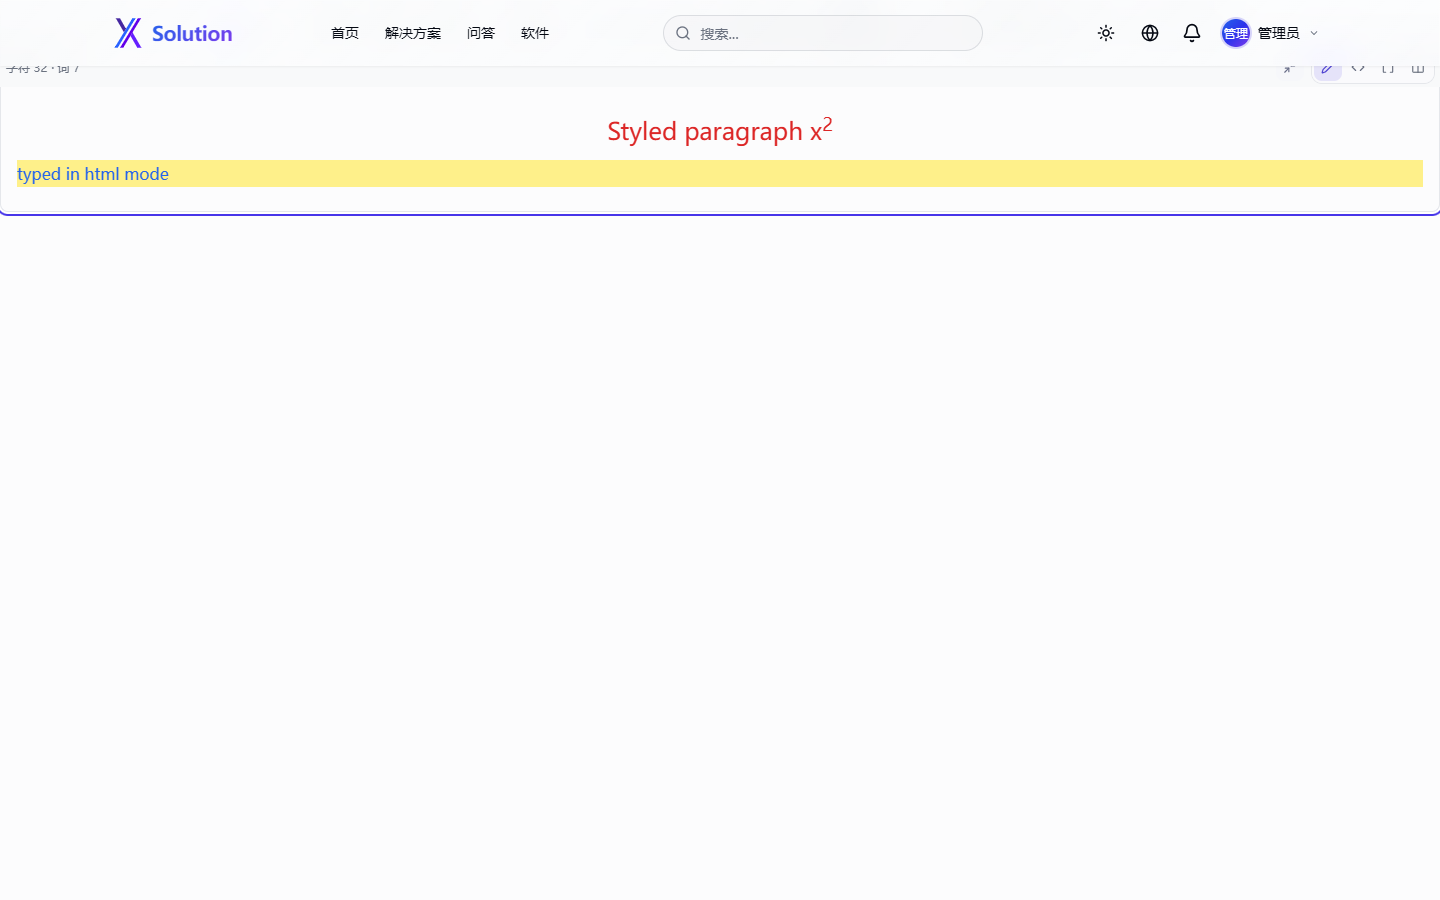
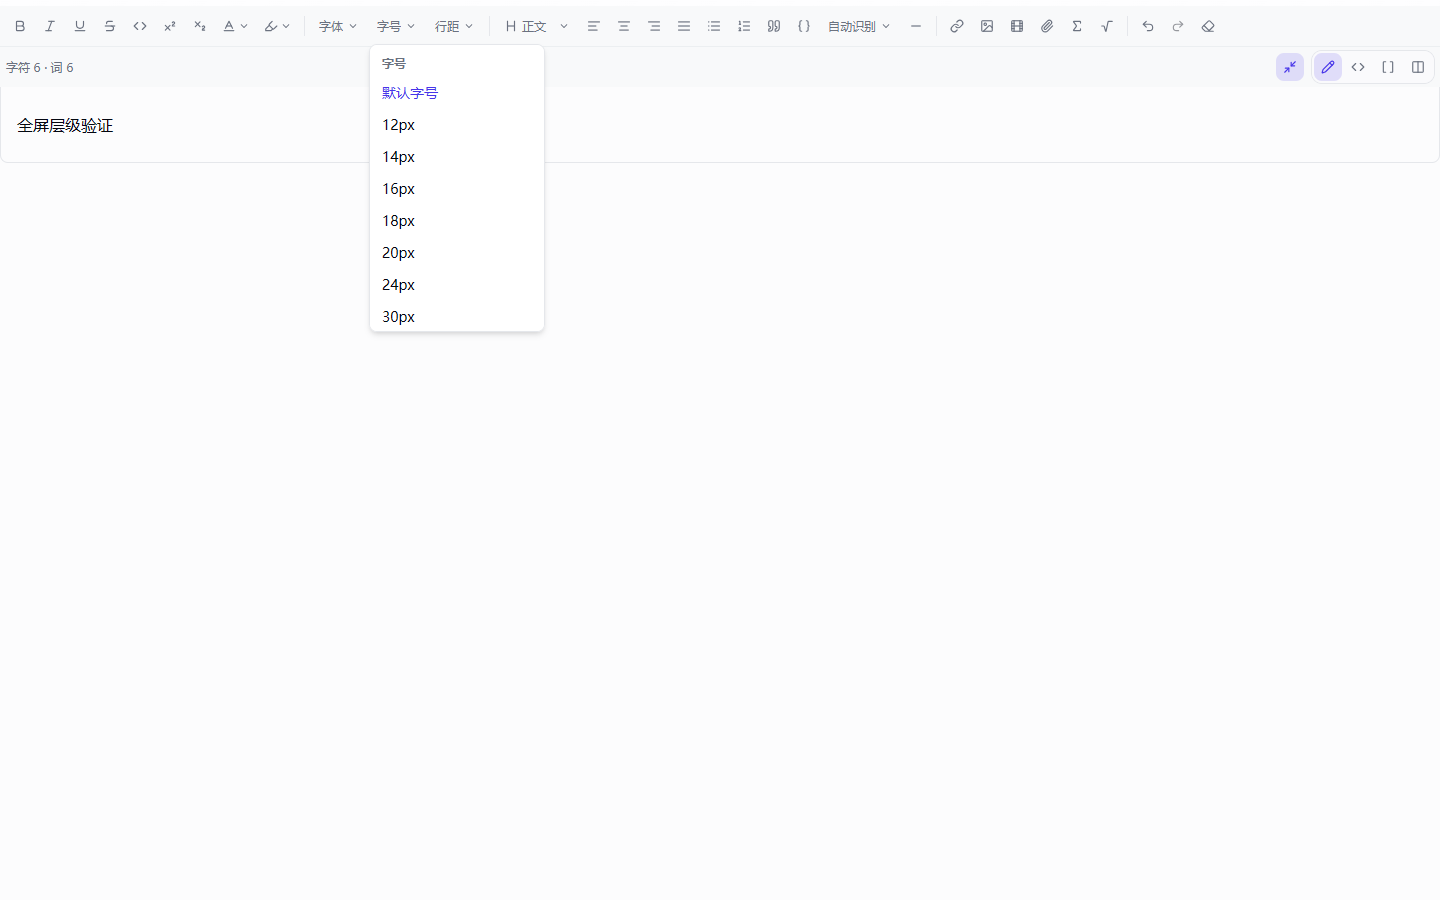
fix(editor): 全屏编辑器被站点顶栏压住——层叠上下文根因与菜单/对话框层级
现象（用户截图）：进入全屏编辑后，站点顶栏盖在编辑器工具栏上，状态行/全屏按钮/视图开关点不到
（Playwright 也点不动：header 子树 intercepts pointer events）。

排查（不猜，逐步实测）：
- 覆盖层 fixed inset-0 z-[60]，顶栏 sticky top-0 z-50，按 z-index 本该覆盖层在上，实测相反；
- 把覆盖层 z-index 改成 99999 仍无效 → 不是数值问题，是层叠上下文；
- 用 elementsFromPoint 拿真实绘制顺序，再逐祖先打印 transform/filter/contain/isolation/animation-*；
- 命中页面容器 div.container … animate-fade-in（animation: fadeIn 0.4s both）：
  fill-mode: both 让动画结束后元素仍处于"被动画影响"状态，于是它一直是 z-index:auto 的层叠上下文，
  覆盖层只在其中比较 z-index，自然被根上下文里 z-50 的顶栏压住；
- 把覆盖层 appendChild 到 body 后立刻正常，根因确认。animate-fade-in(-up) 在约 40 处页面容器上，属普遍问题。

修复：
- globals.css 新增 body.editor-fullscreen main { position: relative; z-index: 60 }：全屏时抬高唯一的
  站点级 <main>（[locale]/layout.tsx），绕开页面自己加的任何包裹层；
- RichEditor 进入/退出全屏时切换 body 的 editor-fullscreen 类（与滚动锁同一 effect，卸载时清理）；
- 工具栏菜单与公式对话框改 z-[70]（Radix Portal 渲染到 body，不改会落到编辑器后面）；为此给共享的
  DialogContent 增加可选 overlayClassName，一并抬高对话框遮罩，否则遮罩在 z-50、模态形同虚设；
- 顺带修 Esc 冲突：全屏里按 Esc 关工具栏下拉会连全屏一起退出。现在按 defaultPrevented +
  [role="menu"][data-state="open"] 判断，先关菜单/对话框，再退全屏。

验证（Playwright 对 next start，9 条断言全绿，用 elementFromPoint 做命中测试而非比对 z-index 数值）：
工具栏首行与状态行都在顶栏之上可点击；全屏里打开字号菜单，菜单可点（在覆盖层之上）；
公式对话框可见、遮罩挡住后面的编辑器、对话框在遮罩之上；Esc 第一次只关菜单、第二次才退全屏；
对话框开着时第一次 Esc 只关对话框。截图 docs/assets/editor-fullscreen.png 已更新。

同步文档：docs/frontend.md（全屏小节的层叠上下文说明、Esc 优先级、body 类）、
docs/code-audit.md（第一节第 20 条，含 5 步排查过程）、docs/README.md（配图说明）、
AGENTS.md §2.7（整屏覆盖层必须先想层叠上下文）。

自检：tsc 0 错误；eslint 无告警；i18n 1127 键对齐；sanitize:check 39/39；markdown:check 19/19；
[…]

diff --git a/src/components/client/EditorToolbar.tsx b/src/components/client/EditorToolbar.tsx
@@ -43,6 +43,13 @@ interface EditorToolbarProps {
   onToggleFullscreen?: () => void
 }
 
+/**
+ * Menu/dialog stacking above the fullscreen editor overlay (`z-[60]`). Portals
+ * render at `document.body`, so without this the menus would open *behind* the
+ * editor they belong to.
+ */
+const FULLSCREEN_MENU_Z = "z-[70]"
+
 /** Font-family presets paired with their message keys (static, so i18n can see them). */
 const FONT_FAMILY_LABEL_KEYS: Record<string, string> = {
   system: "fontFamilySystem",
@@ -188,6 +195,7 @@ export function EditorToolbar({
               colors={TEXT_COLOR_PRESETS}
               value={activeColor}
               icon={<Baseline className="h-3.5 w-3.5" />}
+              fullscreen={fullscreen}
               onPick={(color) => editor.chain().focus().setTextStyle({ color }).run()}
               onClear={() => editor.chain().focus().unsetTextStyle(["color"]).run()}
             />
@@ -197,6 +205,7 @@ export function EditorToolbar({
               colors={HIGHLIGHT_COLOR_PRESETS}
               value={activeHighlight}
               icon={<Highlighter className="h-3.5 w-3.5" />}
+              fullscreen={fullscreen}
               onPick={(color) => editor.chain().focus().setTextStyle({ backgroundColor: color }).run()}
               onClear={() => editor.chain().focus().unsetTextStyle(["backgroundColor"]).run()}
             />
@@ -209,6 +218,7 @@ export function EditorToolbar({
               label={t("fontFamily")}
               display={fontFamilyLabel ? t(FONT_FAMILY_LABEL_KEYS[fontFamilyLabel.id] ?? "fontFamilySystem") : t("fontFamily")}
               active={Boolean(activeFontFamily)}
+              fullscreen={fullscreen}
             >
               <DropdownMenuItem
                 className={cn(!activeFontFamily && "font-medium text-primary")}
@@ -233,6 +243,7 @@ export function EditorToolbar({
               label={t("fontSize")}
               display={activeFontSize || t("fontSize")}
               active={Boolean(activeFontSize)}
+              fullscreen={fullscreen}
             >
               <DropdownMenuItem
                 className={cn(!activeFontSize && "font-medium text-primary")}
@@ -255,6 +266,7 @@ export function EditorToolbar({
               label={t("lineHeight")}
               display={activeLineHeight || t("lineHeight")}
               active={Boolean(activeLineHeight)}
+              fullscreen={fullscreen}
             >
               <DropdownMenuItem
                 className={cn(!activeLineHeight && "font-medium text-primary")}
@@ -285,7 +297,7 @@ export function EditorToolbar({
                   <ChevronDown className="h-3 w-3" />
                 </button>
               </DropdownMenuTrigger>
-              <DropdownMenuContent align="start" className="w-40">
+              <DropdownMenuContent align="start" className={cn(fullscreen && FULLSCREEN_MENU_Z, "w-40")}>
                 <DropdownMenuItem
                   onSelect={() => editor.chain().focus().setParagraph().run()}
                   className={cn(!activeHeading && "font-medium text-primary")}
@@ -353,6 +365,7 @@ export function EditorToolbar({
               label={t("codeLanguage")}
               display={activeCodeLanguage || t("codeLanguageAuto")}
               active={Boolean(activeCodeLanguage)}
+              fullscreen={fullscreen}
             >
               <DropdownMenuItem
                 className={cn(!activeCodeLanguage && "font-medium text-primary")}
@@ -532,11 +545,13 @@ function ToolbarSelect({
   label,
   display,
   active,
+  fullscreen = false,
   children,
 }: {
   label: string
   display: string
   active?: boolean
+  fullscreen?: boolean
   children: React.ReactNode
 }) {
   return (
@@ -552,7 +567,10 @@ function ToolbarSelect({
           <ChevronDown className="h-3 w-3" />
         </button>
       </DropdownMenuTrigger>
-      <DropdownMenuContent align="start" className="max-h-72 w-44 overflow-y-auto">
+      <DropdownMenuContent
+        align="start"
+        className={cn(fullscreen && FULLSCREEN_MENU_Z, "max-h-72 w-44 overflow-y-auto")}
+      >
         <DropdownMenuLabel className="text-xs text-muted-foreground">{label}</DropdownMenuLabel>
         {children}
       </DropdownMenuContent>
@@ -567,6 +585,7 @@ function ColorMenu({
   colors,
   value,
   icon,
+  fullscreen = false,
   onPick,
   onClear,
 }: {
@@ -575,6 +594,7 @@ function ColorMenu({
   colors: readonly string[]
   value: string
   icon: React.ReactNode
+  fullscreen?: boolean
   onPick: (color: string) => void
   onClear: () => void
 }) {
@@ -598,7 +618,7 @@ function ColorMenu({
           <ChevronDown className="h-3 w-3" />
         </button>
       </DropdownMenuTrigger>
-      <DropdownMenuContent align="start" className="w-auto p-2">
+      <DropdownMenuContent align="start" className={cn(fullscreen && FULLSCREEN_MENU_Z, "w-auto p-2")}>
         <DropdownMenuLabel className="px-0 pb-1.5 text-xs text-muted-foreground">{label}</DropdownMenuLabel>
         <div className="grid grid-cols-5 gap-1">
           {colors.map((color) => (

diff --git a/src/components/client/RichEditor.tsx b/src/components/client/RichEditor.tsx
@@ -368,6 +368,12 @@ export function RichEditor({
   /**
    * Fullscreen: lock the page behind the overlay and exit on Escape.
    *
+   * Also flags `<body>`, because the overlay alone cannot win the stacking fight:
+   * page containers use `animate-fade-in` (fill-mode `both`), which creates a
+   * stacking context with `z-index: auto` around the editor, so the sticky header
+   * (`z-50`) painted over the fullscreen toolbar. The `editor-fullscreen` class
+   * lifts `<main>` above the header — see globals.css.
+   *
    * Radix dialogs close themselves on Escape, so an open formula dialog wins and
    * the editor stays fullscreen.
    */
@@ -375,14 +381,24 @@ export function RichEditor({
     if (!fullscreen) return;
     const previousOverflow = document.body.style.overflow;
     document.body.style.overflow = "hidden";
+    document.body.classList.add("editor-fullscreen");
 
     const onKeyDown = (event: KeyboardEvent) => {
-      if (event.key === "Escape" && mathDialogRef.current === null) setFullscreen(false);
+      if (event.key !== "Escape" || event.defaultPrevented) return;
+      // Escape belongs to whatever is open on top: an open menu (Radix renders
+      // its content with `role="menu"` + `data-state="open"`) or the formula
+      // dialog. Only when nothing else is open does it leave fullscreen.
+      if (mathDialogRef.current !== null) return;
+      if (document.querySelector('[role="menu"][data-state="open"], [role="listbox"][data-state="open"]')) {
+        return;
+      }
+      setFullscreen(false);
     };
     window.addEventListener("keydown", onKeyDown);
 
     return () => {
       document.body.style.overflow = previousOverflow;
+      document.body.classList.remove("editor-fullscreen");
       window.removeEventListener("keydown", onKeyDown);
     };
   }, [fullscreen]);
@@ -583,7 +599,10 @@ export function RichEditor({
         "rich-editor",
         // In fullscreen the editor becomes its own column: toolbar pinned at the
         // top, the active view scrolls underneath.
-        fullscreen && "fixed inset-0 z-40 flex flex-col bg-background"
+        // `z-[60]` must stay above the site header (sticky `z-50`), otherwise the
+        // navbar covers the toolbar; anything this editor opens on top of itself
+        // (the formula dialog, the toolbar menus) therefore uses `z-[70]`.
+        fullscreen && "fixed inset-0 z-[60] flex flex-col bg-background"
       )}
       {...(fullscreen ? { role: "region", "aria-label": te("fullscreen") } : {})}
     >
@@ -695,7 +714,10 @@ export function RichEditor({
 
       {/* LaTeX dialog: insert a new formula or edit the double-clicked one */}
       <Dialog open={mathDialog !== null} onOpenChange={(open) => { if (!open) setMathDialog(null); }}>
-        <DialogContent className="max-w-2xl">
+        <DialogContent
+          className={cn("max-w-2xl", fullscreen && "z-[70]")}
+          overlayClassName={fullscreen ? "z-[70]" : undefined}
+        >
           <DialogHeader>
             <DialogTitle>{mathDialog?.pos === null ? te("mathInsertTitle") : te("mathEditTitle")}</DialogTitle>
             <DialogDescription>{te("mathHint")}</DialogDescription>

diff --git a/src/app/globals.css b/src/app/globals.css
@@ -428,6 +428,21 @@
   outline: none;
 }
 
+/* ─── Fullscreen editing ───
+   The overlay itself is `fixed inset-0 z-[60]` (see RichEditor). That z-index only
+   competes *inside* the nearest stacking context, and nearly every page wraps its
+   content in a container with `animate-fade-in` — an animation with fill-mode
+   `both`, which creates a stacking context with `z-index: auto`. So the sticky
+   site header (z-50) painted over the fullscreen toolbar.
+
+   Lifting the single site-wide `<main>` (`[locale]/layout.tsx`) above the header
+   makes the whole subtree win, whatever wrapper a page adds inside it. Same reason
+   the toolbar menus and the formula dialog use z-[70]. */
+body.editor-fullscreen main {
+  position: relative;
+  z-index: 60;
+}
+
 /* ─── Prose Content (Rendered Articles) ─── */
 .prose-custom {
   @apply text-foreground leading-relaxed;

diff --git a/src/components/ui/dialog.tsx b/src/components/ui/dialog.tsx
@@ -27,10 +27,13 @@ DialogOverlay.displayName = DialogPrimitive.Overlay.displayName
 
 const DialogContent = React.forwardRef<
   React.ElementRef<typeof DialogPrimitive.Content>,
-  React.ComponentPropsWithoutRef<typeof DialogPrimitive.Content>
->(({ className, children, ...props }, ref) => (
+  React.ComponentPropsWithoutRef<typeof DialogPrimitive.Content> & {
+    /** Lets a caller stack the backdrop with its own overlay (e.g. the fullscreen editor). */
+    overlayClassName?: string
+  }
+>(({ className, overlayClassName, children, ...props }, ref) => (
   <DialogPortal>
-    <DialogOverlay />
+    <DialogOverlay className={overlayClassName} />
     <DialogPrimitive.Content
       ref={ref}
       className={cn(

diff --git a/docs/code-audit.md b/docs/code-audit.md
@@ -295,6 +295,44 @@ INVALID_MESSAGE: UNCLOSED_TAG (提示：编辑器不支持的标签（如 <secti
 
 ---
 
+### 20. 全屏编辑器被站点顶栏压住（2026-10-07，用户截图反馈）
+
+**现象**：进入全屏编辑后，站点顶栏（导航、搜索框、头像）盖在编辑器工具栏上——状态行、
+全屏按钮、视图开关都点不到（Playwright 也点不动：`header … subtree intercepts pointer events`）。
+
+**排查**（逐步实测，避免猜）：
+
+1. 覆盖层是 `fixed inset-0 z-[60]`，顶栏是 `sticky top-0 z-50` → 按 z-index 应该覆盖层在上，**但实测顶栏在上**；
+2. 把覆盖层的 z-index 改成 `99999` 仍然无效 → 说明不是数值问题，而是**层叠上下文**；
+3. 用 `document.elementsFromPoint()` 拿到真实绘制顺序，再逐个祖先打印
+   `transform / filter / backdrop-filter / contain / container-type / isolation / will-change / animation-*`；
+4. 命中的是页面容器：`div.container … animate-fade-in`，`animation: fadeIn 0.4s both`。
+   **`fill-mode: both` 让动画结束后元素仍处于"被动画影响"的状态，于是它一直是一个 `z-index: auto` 的层叠上下文**——
+   覆盖层的 z-index 只在这个上下文内比较，自然被根上下文里 `z-50` 的顶栏压住；
+5. 把覆盖层 `appendChild` 到 `document.body` 后立刻正常，确认根因。
+
+`animate-fade-in` / `animate-fade-in-up` 几乎是每个页面容器的标配（约 40 处），所以这不是偶发问题。
+
+**修复**：
+
+- `globals.css`：全屏时给唯一的站点级 `<main>`（`[locale]/layout.tsx`）抬高到 `z-index: 60`，绕开页面自己加的包裹层：
+  ```css
+  body.editor-fullscreen main { position: relative; z-index: 60; }
+  ```
+- `RichEditor` 进入/退出全屏时切换 `<body>` 的 `editor-fullscreen` 类（与滚动锁放在同一个 effect，卸载时清理）。
+- 工具栏菜单与公式对话框改用 `z-[70]`：它们经 Radix Portal 渲染到 `document.body`，不改就会**落到编辑器后面**；
+  为此给共享的 `DialogContent` 加了可选的 `overlayClassName`，一并抬高对话框遮罩（否则遮罩在 z-50，
+  点不到"遮罩挡住后面"的效果，模态形同虚设）。
+- 顺带修掉一个 Esc 冲突：在全屏里按 Esc 关工具栏下拉时，会连全屏一起退出。现在按
+  `defaultPrevented` + `[role="menu"][data-state="open"]` 判断，**先关菜单/对话框，再退全屏**。
+
+**验证**（Playwright 对 `next start`，9 条断言全绿，用 `elementFromPoint` 做命中测试而不是比对 z-index 数值）：
+工具栏首行与状态行都在顶栏之上可点击；全屏里打开字号菜单，菜单在覆盖层之上可点；
+公式对话框可见、遮罩真的挡住后面的编辑器、对话框在遮罩之上；Esc 第一次只关菜单、第二次才退全屏；
+对话框打开时第一次 Esc 只关对话框。截图见 [editor-fullscreen.png](./assets/editor-fullscreen.png)。
+
+---
+
 ## 二、待处理
 按影响面排序，均未修改。
 

diff --git a/docs/frontend.md b/docs/frontend.md
@@ -178,13 +178,25 @@ src/app/
 **颜色比较要归一化**：ProseMirror 通过 CSSOM（`cssText`）渲染 `style`，`#dc2626` 会被写成 `rgb(220, 38, 38)`；
 `normalizeCssColor()` 把两边都转成 `#rrggbb` 再比较，色板才能正确显示"当前色"。
 
-**全屏编辑**：状态行右侧的箭头按钮把整个编辑器变成 `fixed inset-0 z-40 flex flex-col` 覆盖层（工具栏是固定头部、
-当前视图自己滚动），进入时锁 `document.body` 滚动并把焦点交回可编辑区；**Esc 退出**（若公式对话框开着，
-Radix 先关对话框、编辑器保持全屏）。可编辑区的内联 `min-height` 在全屏时改成 `100%`，源码/分屏文本框则改由布局控制高度。
+**全屏编辑**：状态行右侧的箭头按钮把整个编辑器变成 `fixed inset-0 z-[60] flex flex-col` 覆盖层（工具栏是固定头部、
+当前视图自己滚动），进入时锁 `document.body` 滚动并把焦点交回可编辑区；Esc 逐层退出。
+
+**为什么需要 `body.editor-fullscreen main { z-index: 60 }`**（globals.css）：覆盖层自己的 z-index 只在**最近的层叠上下文内**
+比较。而几乎每个页面都把内容包在带 `animate-fade-in` 的容器里，该动画是 `fill-mode: both`，会留下一个
+`z-index: auto` 的层叠上下文，于是 `fixed z-[60]` 的覆盖层被困在里面，被 `sticky z-50` 的站点顶栏压住（实测：
+即使把 z-index 抬到 99999 也无效，把覆盖层移出 `body` 才生效）。抬高唯一的站点级 `<main>`
+（`[locale]/layout.tsx`）就绕开了页面自己加的任何包裹层。同理，全屏时工具栏菜单与公式对话框用 `z-[70]`
+（对话框的遮罩靠 `DialogContent` 新增的 `overlayClassName` 一起抬高），否则它们会**跑到编辑器后面**。
+
+**Esc 的优先级**：先关打开着的菜单/对话框，再退出全屏——靠 `defaultPrevented` 与
+`[role="menu"][data-state="open"]` 判断，否则在工具栏里按 Esc 关下拉会连全屏一起退出。
+
+**其它细节**：可编辑区的内联 `min-height` 在全屏时改成 `100%`，源码/分屏文本框改由布局控制高度；
+进入全屏时给 `<body>` 加 `editor-fullscreen` 类（与滚动锁同一处 effect，退出/卸载时移除）。
 
 ![编辑器工具栏与状态行](./assets/editor-toolbar.png)
 
-![全屏编辑](./assets/editor-fullscreen.png)
+![全屏编辑（下拉菜单仍浮在覆盖层之上，不受站点顶栏影响）](./assets/editor-fullscreen.png)
 
 **Markdown 源码模式的保真**（`lib/editor-markdown.ts`）：turndown 的内置规则**优先于** `keep()`，因此
 `## 标题` 上的 `style="text-align: center"` 会被标题规则吃掉，附件锚点会被转成普通链接；空元素更是连规则都进不去

diff --git a/docs/README.md b/docs/README.md
@@ -149,7 +149,7 @@ python -m crawler.main --format jsonl             # 每行一条 JSON
 | `docs/assets/publish-*.png` | 发布页界面截图 | `/questions/ask` 与 `/solutions/new` 各 1 张（1440×1000），见 [frontend.md](./frontend.md) 第二节 |
 | `docs/assets/editor-math.png` · `docs/assets/math-rendered.png` | 公式功能截图 | 编辑器内的 LaTeX 节点与详情页的服务端渲染效果，见 [frontend.md](./frontend.md)「公式」小节 |
 | `docs/assets/editor-toolbar.png` | 编辑器工具栏截图 | 两行工具栏（排版 / 字体与间距 / 段落 / 插入 / 历史 + 状态与视图开关）与 HTML 源码样式切回富文本后的效果，见 [frontend.md](./frontend.md)「编辑器排版与三模式切换」 |
-| `docs/assets/editor-fullscreen.png` | 全屏编辑截图 | 覆盖层里的工具栏与可编辑区，见 [frontend.md](./frontend.md) 同小节 |
+| `docs/assets/editor-fullscreen.png` | 全屏编辑截图 | 覆盖层铺满视口（不被站点顶栏压住），工具栏菜单浮在其上，见 [frontend.md](./frontend.md)「编辑器排版与三模式切换」 |
 | `docs/assets/upload-attachments.png` | 上传功能截图 | 工具栏的图片/视频/附件入口、附件 chip 与内联视频，见 [frontend.md](./frontend.md)「图片、视频与附件上传」 |
 
 > ⚠ 两个已知的资源缺口：`public/og-image.png` **不存在**，但根 layout 与 `[locale]/layout.tsx` 共引用 4 次

diff --git a/AGENTS.md b/AGENTS.md
@@ -120,6 +120,10 @@
 - 图标按钮必须同时给 `title` 与 `aria-label`；表单控件要有 `htmlFor`/`id` 关联；开关类用 `aria-pressed`。
 - 页面只能有一个 `<main>` 地标；加载态给 `aria-busy`；破坏性操作要有确认弹窗（删用户要求输入目标邮箱）。
 - 交互组件放 `src/components/client/**` 并标 `"use client"`；服务端页面直接查 Prisma，不要为了少写一次查询而绕道自家 API。
+- **整屏覆盖层（`fixed inset-0`）要先想层叠上下文**：页面容器普遍带 `animate-fade-in`（`fill-mode: both`）→
+  它是个 `z-index: auto` 的层叠上下文，覆盖层的 z-index 只在其内部比较，会被 `sticky z-50` 的顶栏压住
+  （抬数值无效）。做法见全屏编辑器：`body.editor-fullscreen main { z-index: 60 }` 抬高站点级 `<main>`，
+  由 Portal 渲染的菜单/对话框再各抬一级（`z-[70]`，对话框遮罩用 `DialogContent` 的 `overlayClassName`）。
 - 文案、日期与相对时间都要按 locale 输出（`formatDate(date, locale)`、`formatRelativeTime(date, locale)`）。
 
 ### 2.8 安全
